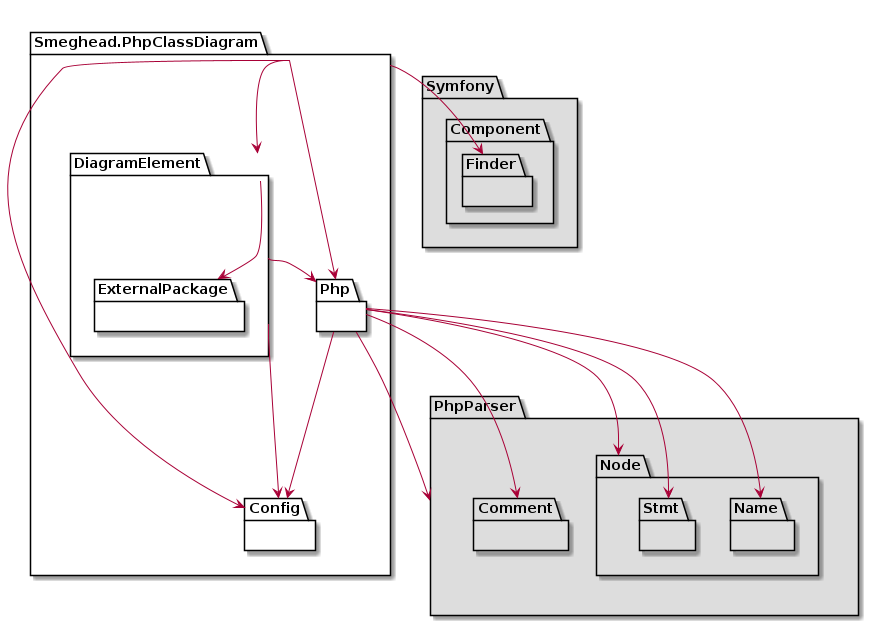
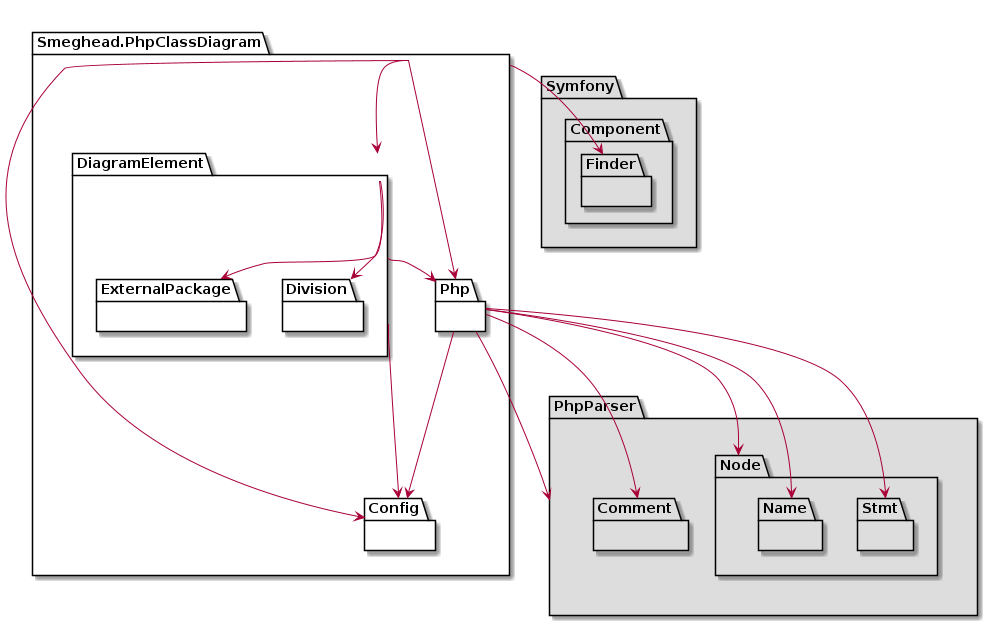
add division diagram description to README.

diff --git a/src/DiagramElement/Entry.php b/src/DiagramElement/Entry.php
@@ -85,7 +85,7 @@ class Entry
                 if (empty($doc)) {
                     return sprintf('%s  %s', $indent, $x->getName());
                 }
-                return sprintf("%s  %s\n%s  <b>%s</b>", $indent, $x->getName(), $indent, $doc);
+                return sprintf("%s  %s\r\n%s  <b>%s</b>", $indent, $x->getName(), $indent, $doc);
             }, $cases));
             $lines[] = sprintf('%s]', $indent);
         }

diff --git a/test/fixtures/enum/Sub/Status.php b/test/fixtures/enum/Sub/Status.php
@@ -18,6 +18,10 @@ enum MyExceptionCase {
 
 enum Size
 {
+    public static function getSmallest(): self
+    {
+        return self::Small;
+    }
     case Small;
     case Medium;
     case Large;

diff --git a/README.md b/README.md
@@ -208,6 +208,13 @@ If it finds packages that depend on each other, it will warn you with a thick re
 ![PlantUML output image.](output-package.png)
 
 
+### Division Diagram
+
+If you are using the Enum added in PHP8.1, you can output the division chart.
+Visualizing the divisions used in the program can be useful for research and design.
+
+![PlantUML output image.](output-division.png)
+
 ## Development
 
 ### Open shell
